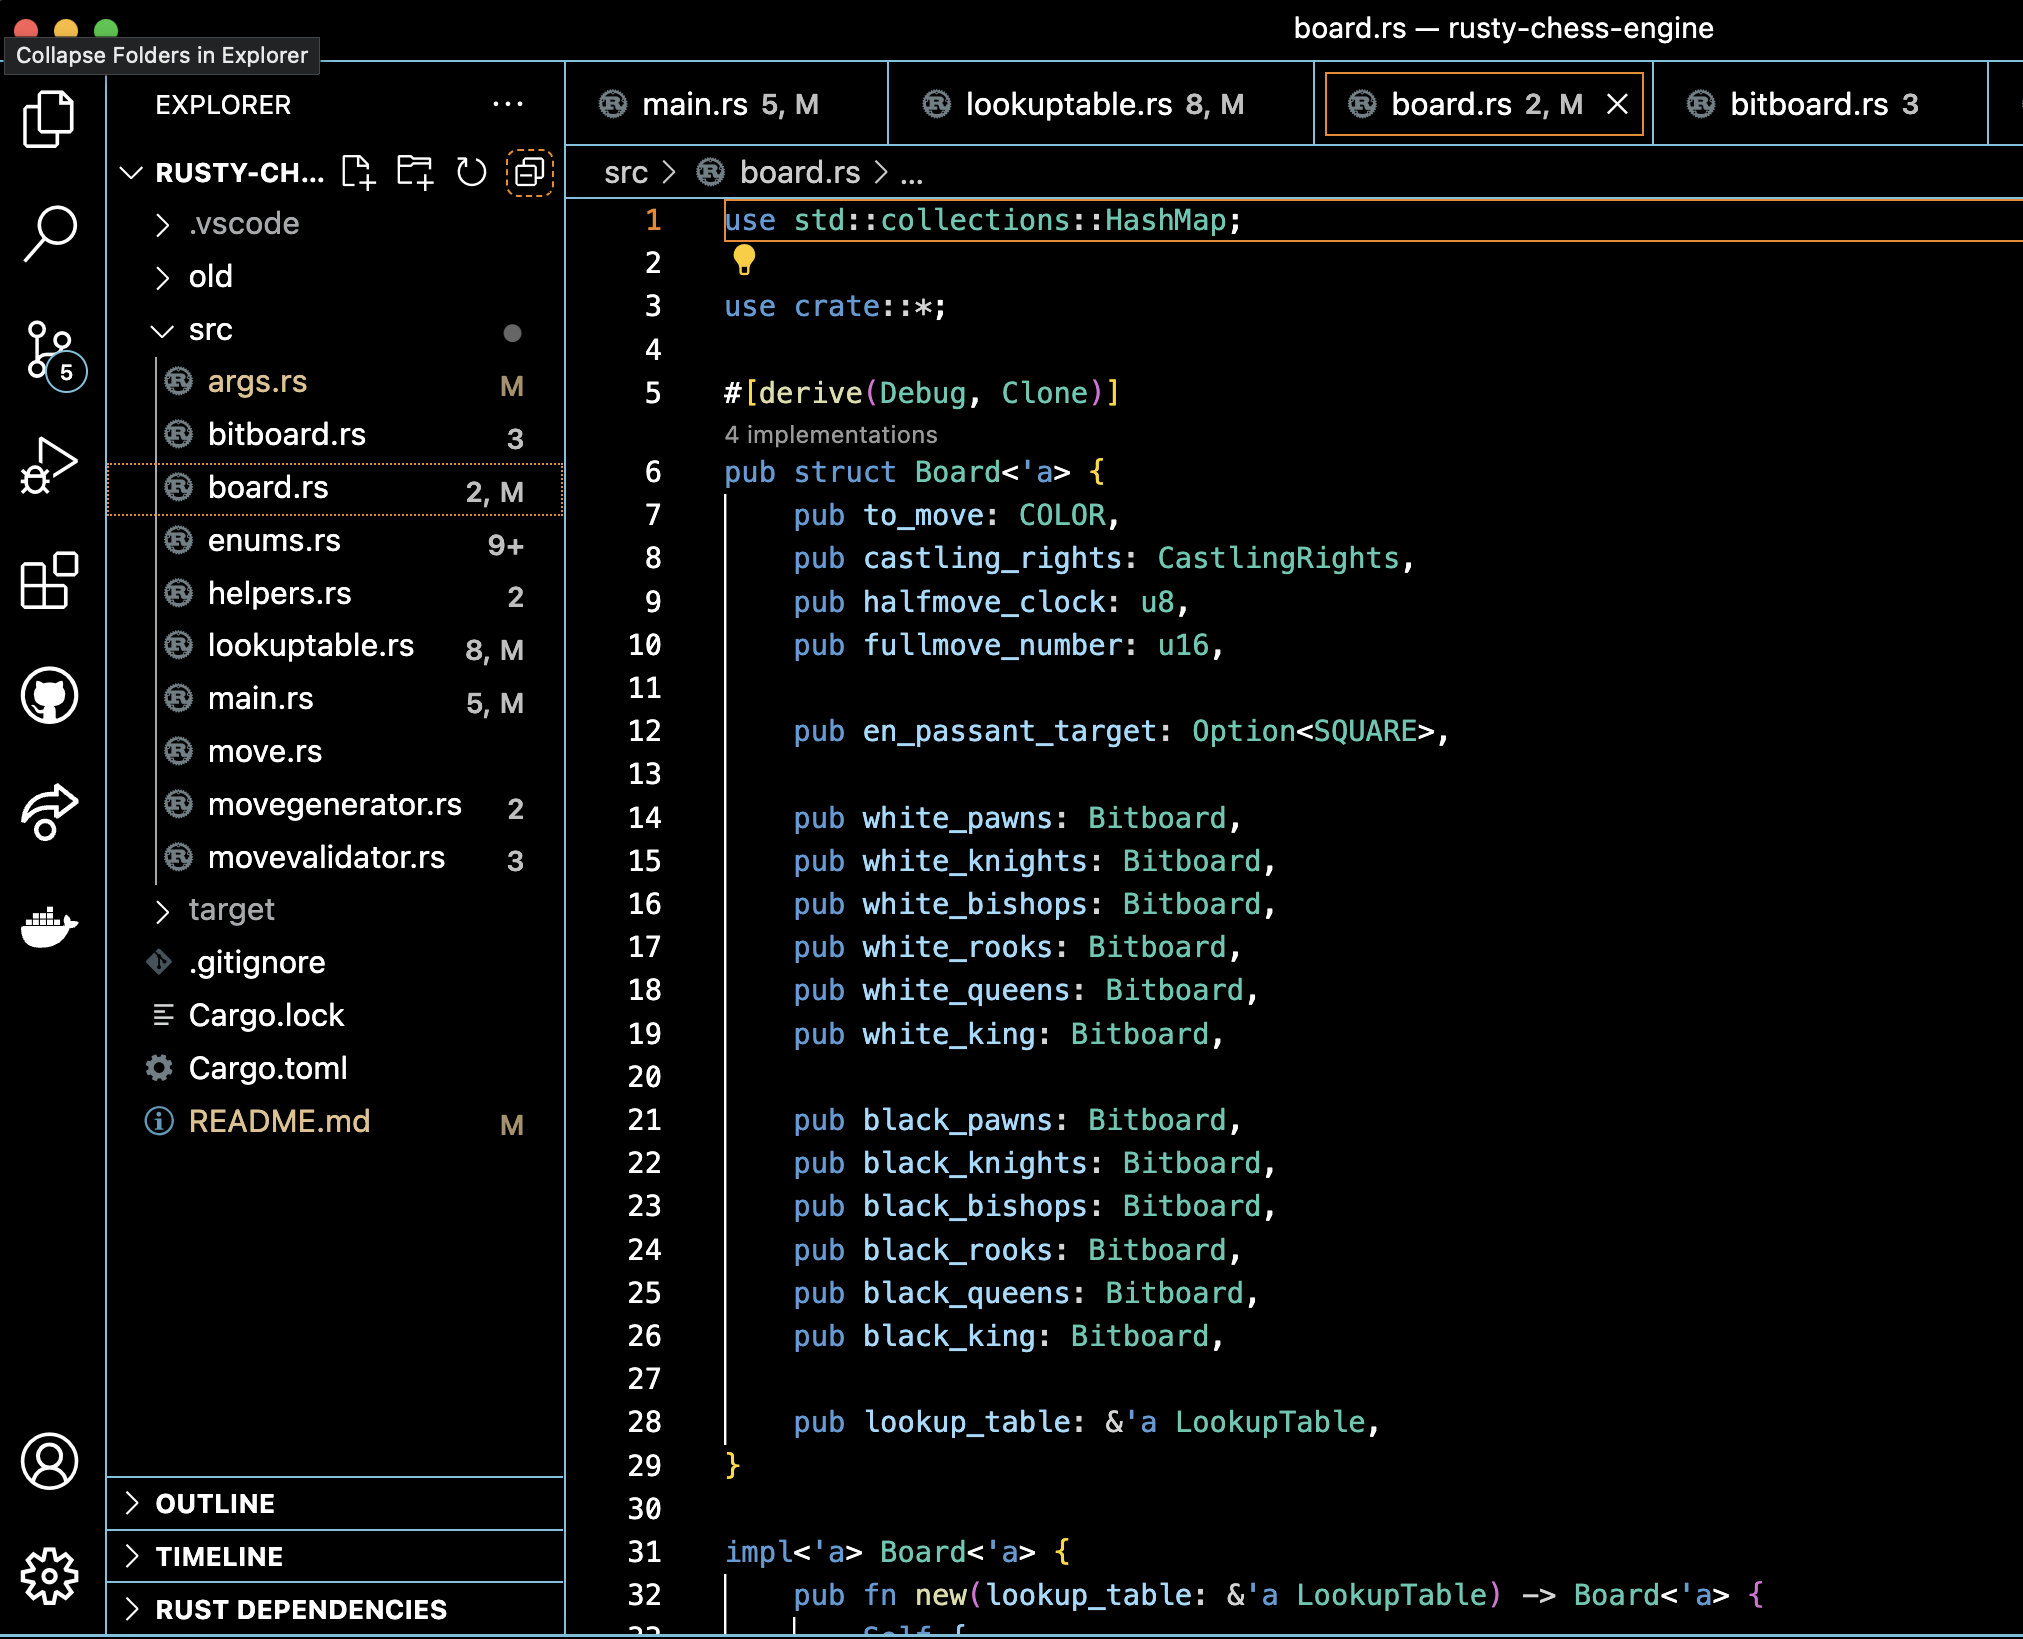
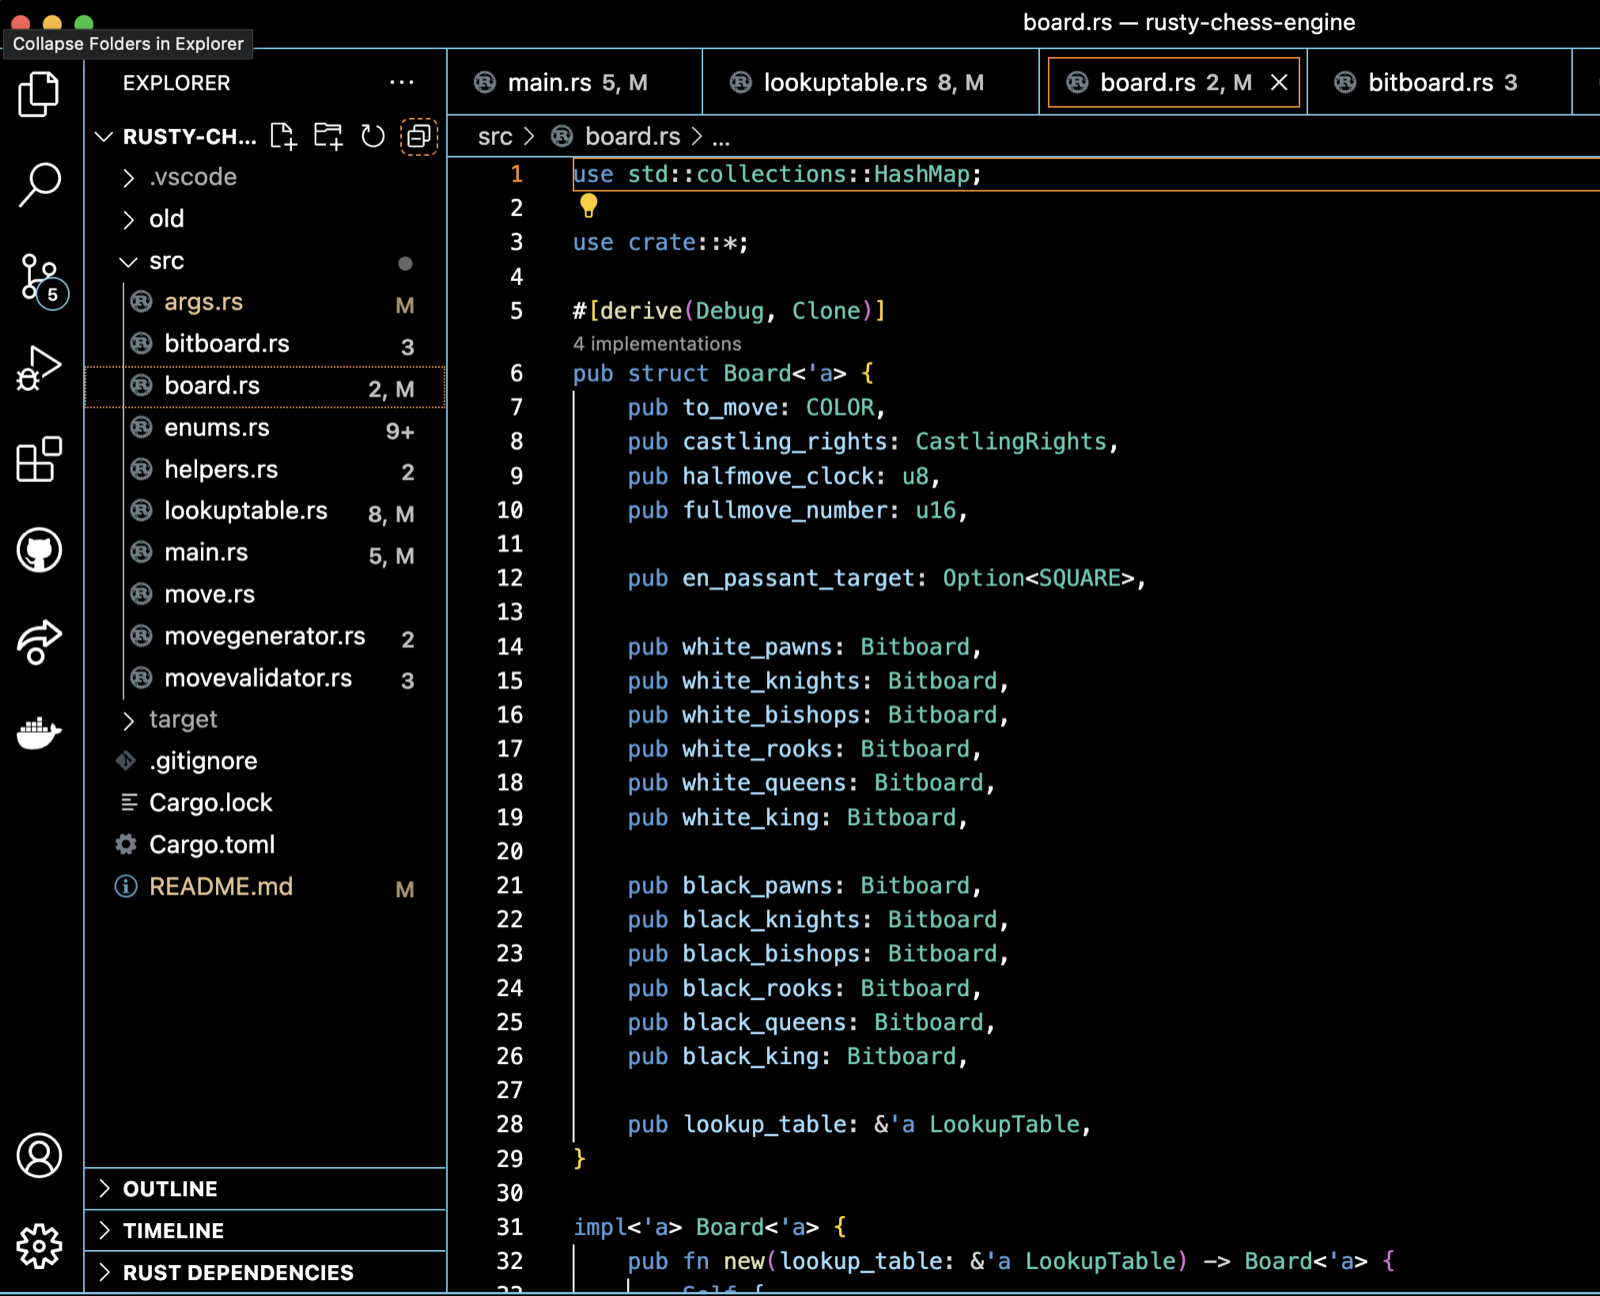
fix: address final review — licensing, CI verification, and asset weight
Replaces al-folio's LICENSE with an MIT notice in Shrey's name plus the
academic-homepage third-party notice the vendored template requires.
Adds a PR/branch workflow running bin/verify.sh so the build is exercised
before it reaches main. Drops robots.txt's sitemap line (jekyll-sitemap
went with al-folio) and downscales two oversized project covers.

diff --git a/README.md b/README.md
@@ -41,4 +41,7 @@ of `projects.html`.
 Pushing to `main` triggers `.github/workflows/deploy.yml`, which runs
 `bundle exec jekyll build` and publishes to GitHub Pages. The custom build is
 required because `jekyll-email-protect` is not on the GitHub Pages plugin
-allowlist.
+allowlist. This requires the repo's Pages source (Settings → Pages → Source)
+to be set to "GitHub Actions" rather than "Deploy from a branch"; until that
+is set, the workflow builds successfully but the live site keeps serving
+stale output.
